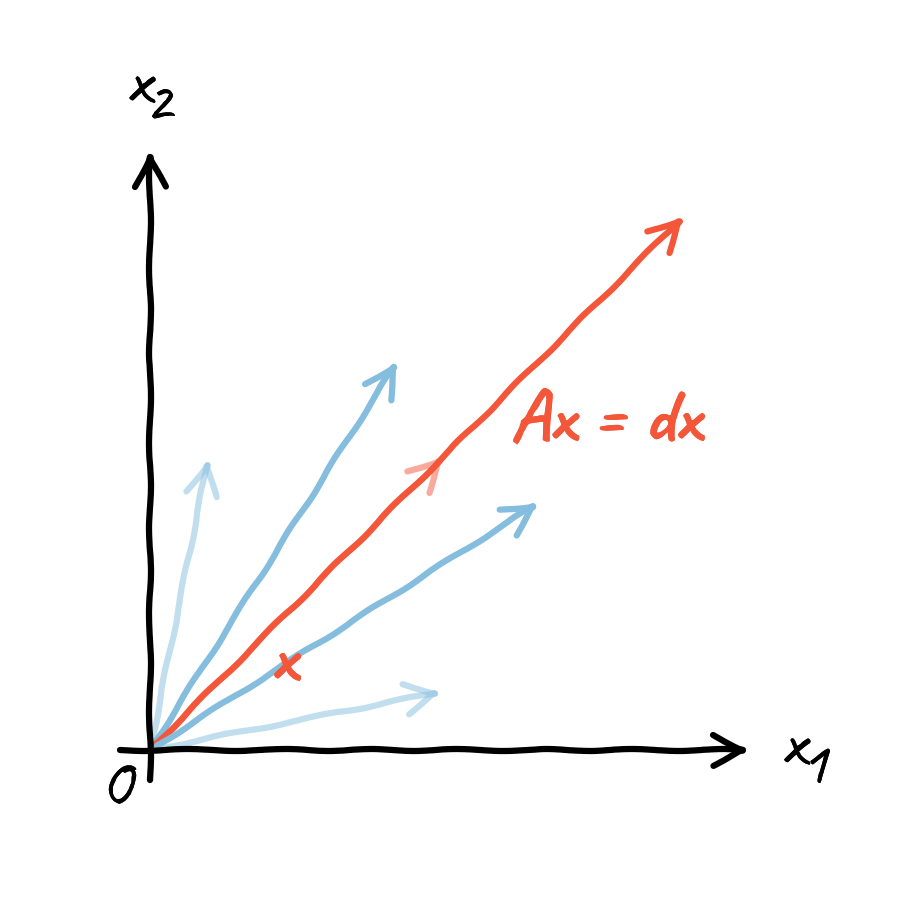
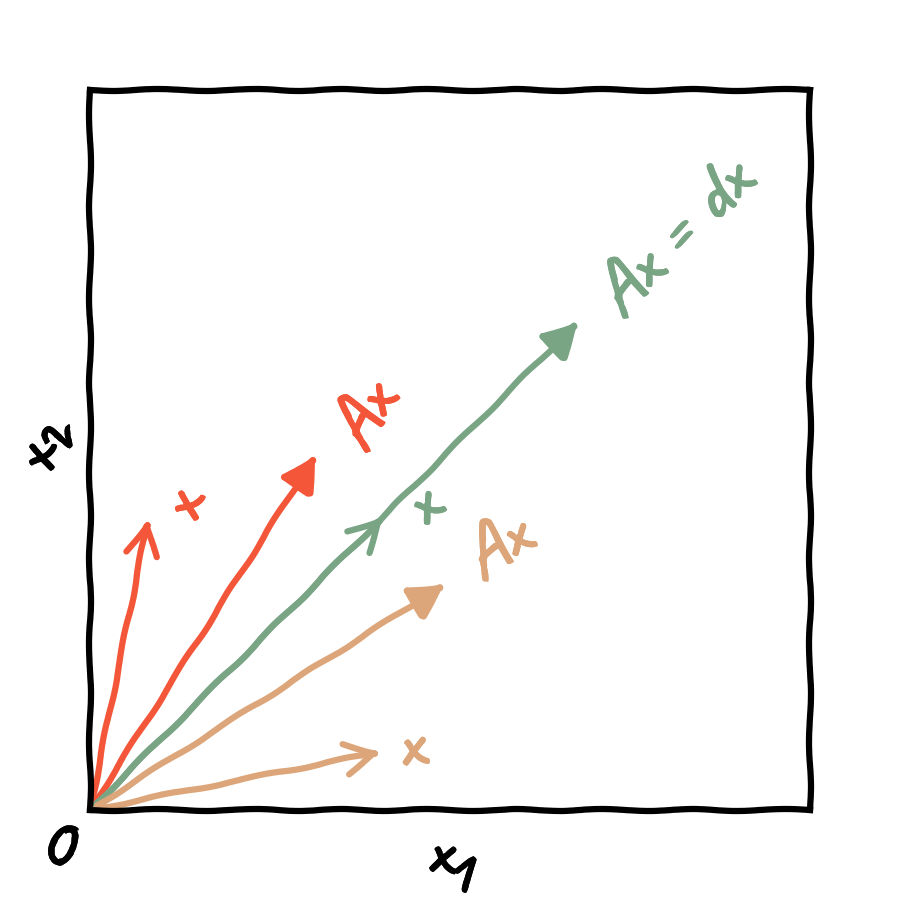
Updated figures

diff --git a/lectures/source/contents/scripts/eigenvectors.py b/lectures/source/contents/scripts/eigenvectors.py
@@ -1,6 +1,5 @@
-"""K-means clustering algorithm visualization in GIF."""
+"""Matrix eigenvector visualization."""
 
-import matplotlib.pyplot as plt
 import numpy as np
 
 import utils
@@ -15,57 +14,54 @@ def main():
     fig, ax = utils.square_canvas()
 
     # Data and model
-    A = np.array([[1, 0.5], [0.5, 1]]) * 1.2
-    v = np.linalg.eig(A)[1][:, 0]
+    A = np.array([[1, 0.5], [0.5, 1]]) * 1.1
 
     # Annotate plenty of vectors
-    for x, y in zip([0.1, 0.5, 0.5], [0.5, 0.5, 0.1]):
+    for i, (x, y) in enumerate(zip([0.1, 0.5, 0.5], [0.5, 0.5, 0.1])):
         x_vec = np.array([x, y])
         Ax_vec = A @ x_vec
-        color = "C1" if x == y else "C0"
         ax.annotate(
             "",
             xy=Ax_vec,
             xytext=(0, 0),
-            arrowprops=dict(arrowstyle="->", color=color),
+            arrowprops=dict(arrowstyle="-|>", color=f"C{i + 1}"),
             zorder=0,
         )
         ax.annotate(
             "",
             xy=x_vec,
             xytext=(0, 0),
-            arrowprops=dict(arrowstyle="->", color=color, alpha=0.5),
+            arrowprops=dict(arrowstyle="->", color=f"C{i + 1}"),
             zorder=0,
         )
+        angle_with_x = np.arctan2(y, x)
+        angle_with_Ax = np.arctan2(Ax_vec[1], Ax_vec[0])
+        ax.text(
+            *Ax_vec,
+            "Ax = dx" if i == 1 else "Ax",
+            color=f"C{i + 1}",
+            ha="left",
+            rotation=np.degrees(angle_with_Ax),
+            va="baseline",
+        )
+        ax.text(
+            *x_vec,
+            "x",
+            color=f"C{i + 1}",
+            ha="left",
+            rotation=np.degrees(angle_with_x),
+            va="center",
+        )
 
-    # Arrow axes
-    ax.annotate(
-        "",
-        xy=(1, 0),
-        xytext=(-0.05, 0),
-        arrowprops=dict(arrowstyle="->", shrinkA=0, shrinkB=0),
-        annotation_clip=False,
-    )
-    ax.annotate(
-        "",
-        xy=(0, 1),
-        xytext=(0, -0.05),
-        arrowprops=dict(arrowstyle="->", shrinkA=0, shrinkB=0),
-        annotation_clip=False,
-    )
-    ax.text(1.05, 0, "x₁", ha="left", va="center", weight="normal")
-    ax.text(0, 1.05, "x₂", ha="center", va="bottom", weight="normal")
-    ax.text(-0.03, -0.01, "0", ha="right", va="top", weight="normal")
-
-    # Labels
-    ax.text(0.2, 0.2, "x", color="C1", ha="left", va="top")
-    ax.text(0.6, 0.6, "Ax = dx", color="C1", ha="left", va="top")
-
-    ax.set_axis_off()
-    ax.set_xlim(-0.1, 1.1)
-    ax.set_ylim(-0.1, 1.1)
+    # Labels and limits
+    ax.set_xlabel("x₁")
+    ax.set_ylabel("x₂")
+    ax.text(-0.03, -0.01, "0", ha="right", va="top")
+    ax.set_xlim(0, 1.2)
+    ax.set_ylim(0, 1.2)
     ax.set_aspect("equal")
 
+    # Save figure
     fig.savefig(args.output_dir / "eigenvectors.png")
 
 

diff --git a/lectures/source/contents/scripts/svm.py b/lectures/source/contents/scripts/svm.py
@@ -1,4 +1,5 @@
-import matplotlib.pyplot as plt
+"""Support Vector Machine (SVM) example."""
+
 import numpy as np
 
 from sklearn.datasets import make_blobs
@@ -8,7 +9,6 @@ import utils
 
 
 def make_classification(x, y):
-    """Generate synthetic classification data."""
     model = SVC(kernel="linear")
     model.fit(x, y)
     return model
@@ -19,26 +19,20 @@ def main():
     # Arguments
     args = utils.parse_args()
 
-    # Customize matplotlib style
-    utils.xkcd_style()
-
     # Create accuracy matrix
     features, labels = make_blobs(
         n_samples=70, centers=2, cluster_std=2.5, random_state=1
     )
 
     # Initialize plot
-    fig, ax = plt.subplots(figsize=(3, 3))
+    fig, ax = utils.square_canvas()
 
     # Show scatter plot
-    utils.samples(ax, features, labels)
+    utils.scatter_samples(ax, features, labels)
 
     # Labels
     ax.set_xlabel("feature x₁")
     ax.set_ylabel("feature x₂")
-    ax.set_xticks([])
-    ax.set_yticks([])
-
     fig.savefig(f"{args.output_dir}/svm_data.png", dpi=300)
 
     # SVM decision boundary
@@ -64,9 +58,9 @@ def main():
             ha="right",
         )
 
-    fig.savefig(f"{args.output_dir}/svm_support_vectors.png", dpi=300)
+    fig.savefig(args.output_dir / "svm_support_vectors.png")
 
-    utils.draw_boundaries(ax, model, colors="w")
+    utils.plot_boundary_decision(ax, model, colors="w")
     utils.colorized_boundaries(ax, model)
 
     # Now annotate the margins
@@ -80,7 +74,7 @@ def main():
     ax.plot(xx, yy_up, "k--", linewidth=0.8)
 
     # Save figure
-    fig.savefig(f"{args.output_dir}/svm.png", dpi=300)
+    fig.savefig(args.output_dir / "svm.png")
 
 
 if __name__ == "__main__":

diff --git a/lectures/source/contents/scripts/regression.py b/lectures/source/contents/scripts/regression.py
@@ -33,8 +33,7 @@ def main():
     x, y = linear_regression_line(feature, label)
 
     # Initialize plot
-    utils.xkcd_style()
-    fig, ax = plt.subplots(figsize=(3, 3))
+    fig, ax = utils.square_canvas()
 
     # Data samples
     ax.plot(x, y, color=utils.brighter("C5", -1), lw=2)
@@ -67,7 +66,7 @@ def main():
     )
 
     # Save figure
-    fig.savefig(f"{args.output_dir}/regression.png")
+    fig.savefig(args.output_dir / "regression.png")
 
 
 if __name__ == "__main__":

diff --git a/lectures/source/contents/scripts/confusion_matrix.py b/lectures/source/contents/scripts/confusion_matrix.py
@@ -17,7 +17,7 @@ def main():
     cases = ["true", "false"]
 
     # Initialize plot
-    fig, ax = plt.subplots(figsize=(3, 3))
+    fig, ax = utils.square_canvas(margin=0.22)
 
     # Show matrix
     cmap = utils.cycler_cmap(2).reversed()
@@ -37,7 +37,6 @@ def main():
     ax.xaxis.set_ticks_position("bottom")
 
     # Save
-    fig.tight_layout(pad=0.2)
     fig.savefig(args.output_dir / "confusion_matrix.png")
 
 

diff --git a/lectures/source/slides.md b/lectures/source/slides.md
@@ -620,7 +620,7 @@ Performance of a classifier can be derived from the confusion matrix:
 - __Precision__: fraction of true positives among predicted positives $= \frac{TP}{TP + FP}$
 - __Recall__: fraction of true positives among actual positives $= \frac{TP}{TP + FN}$
 
-![bg right 60%](contents/figures/confusion_matrix.png)
+![bg right 70%](contents/figures/confusion_matrix.png)
 
 ---
 
